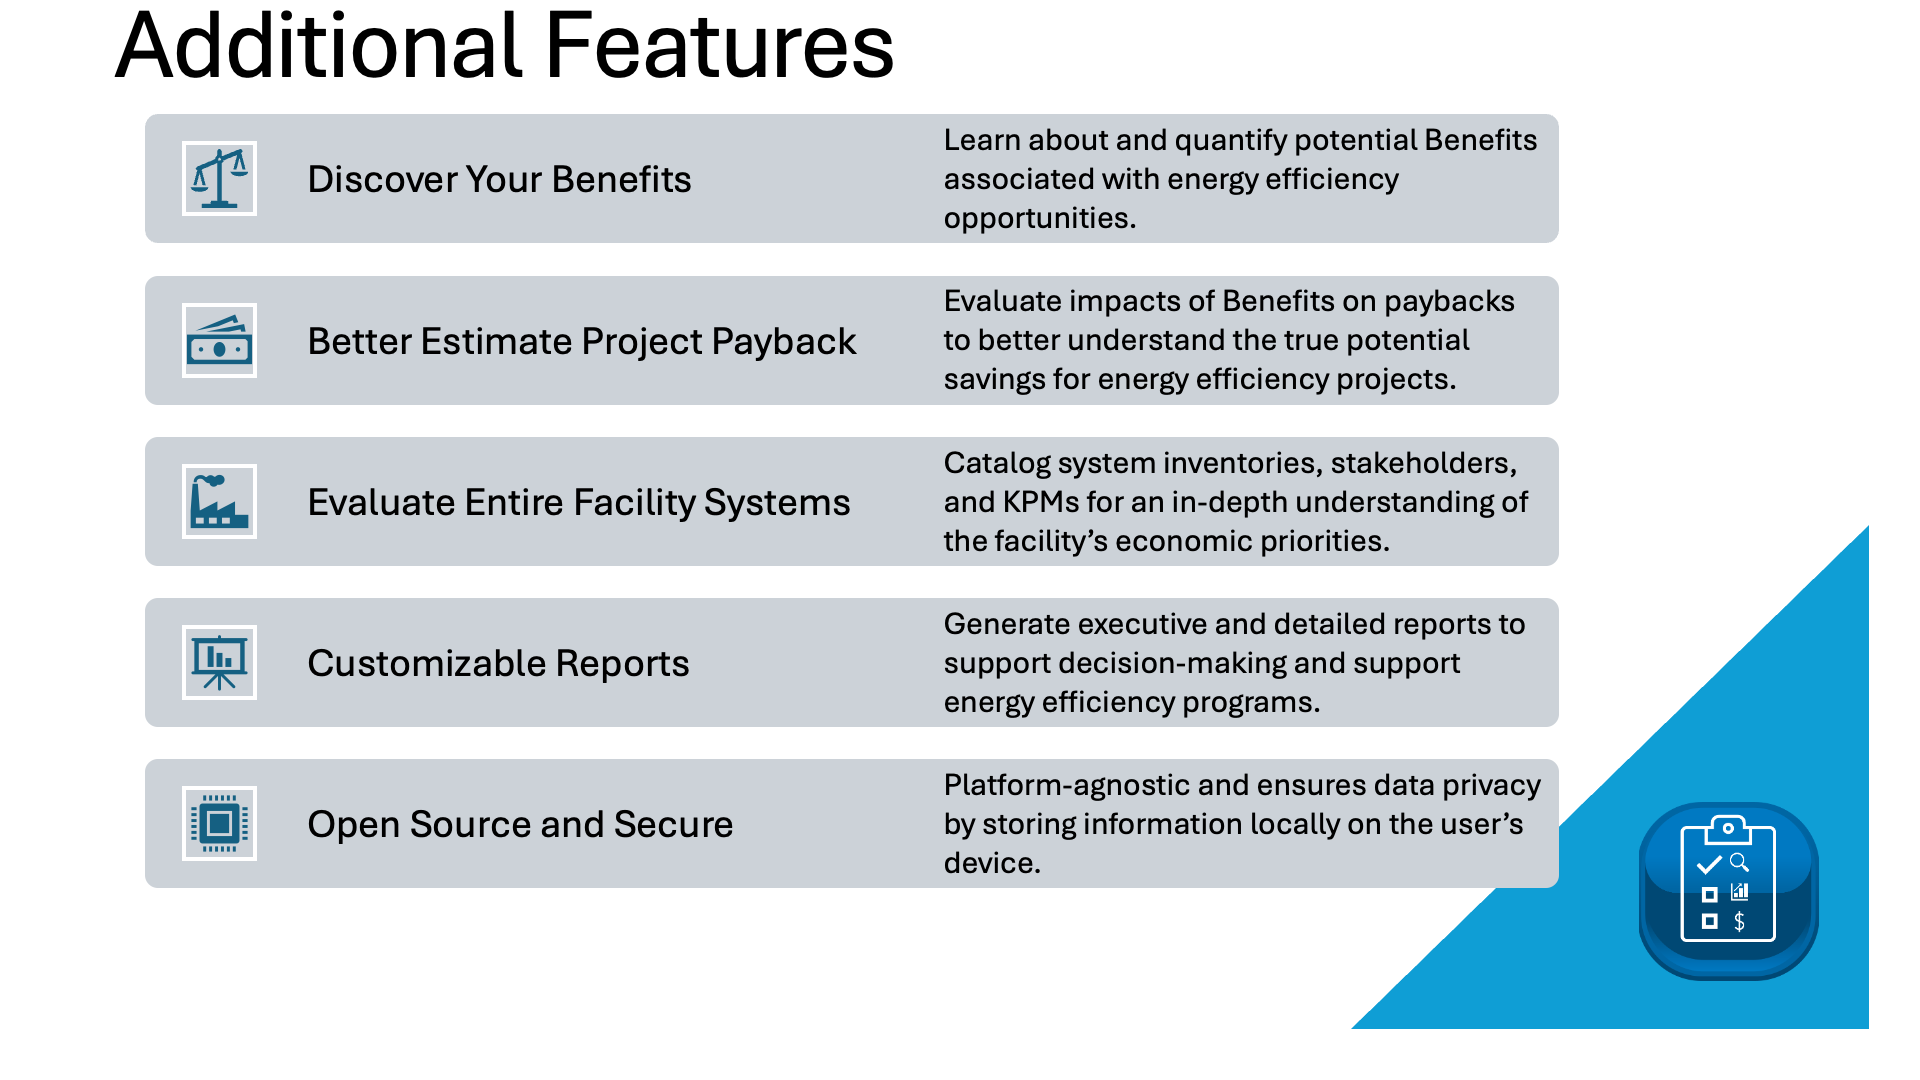
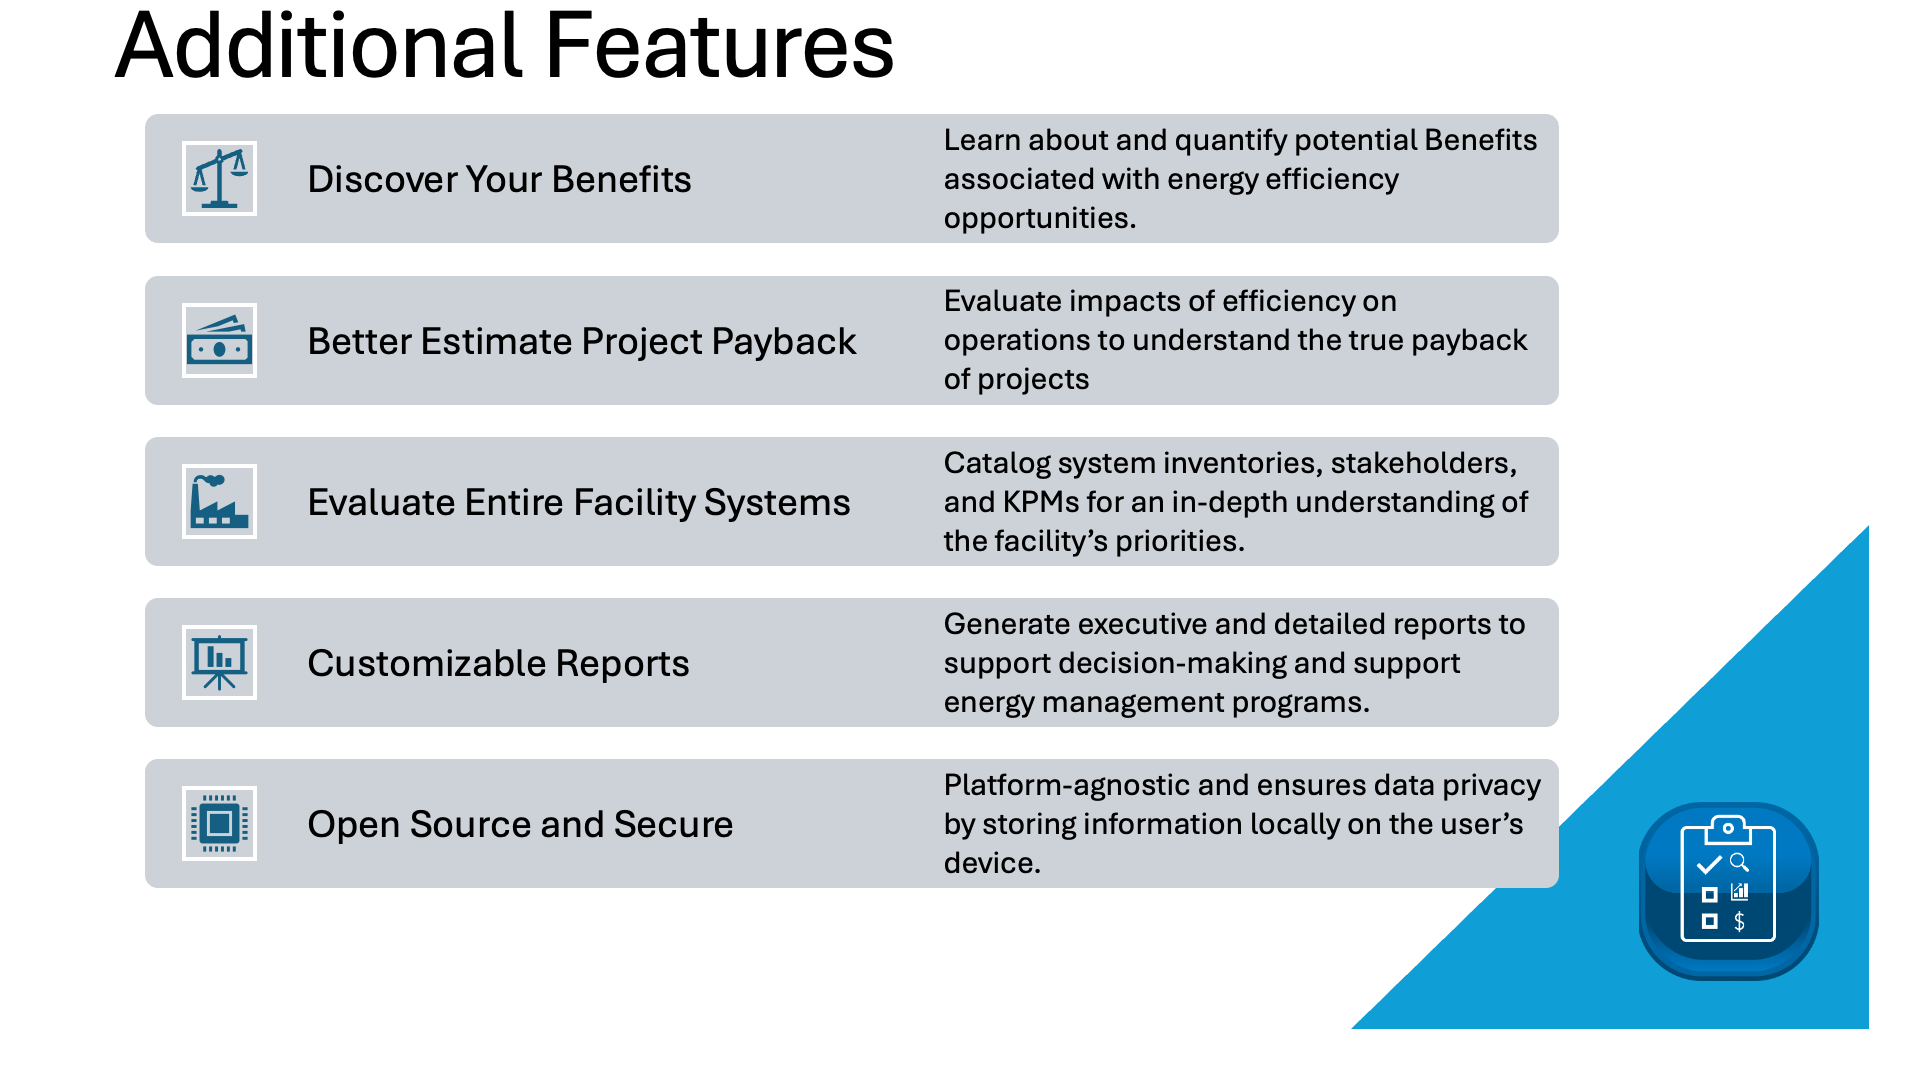
fixup: updated slideshow, examples and words

Changed region(s): [[0.5, 0.275, 0.8125, 0.3667], [0.5312, 0.6417, 0.7188, 0.6722], [0.5625, 0.4889, 0.7188, 0.5194]]

diff --git a/src/app/shared/help-content/energy-equipment-help.ts b/src/app/shared/help-content/energy-equipment-help.ts
@@ -15,7 +15,7 @@ export const EnergyEquipmentTakeStockHelp = {
 }
 
 export const EnergyEquipmentOperationsHelp = {
-    sectionHelp: `The questions outlined in this section are to help you think about how this system, the assessment, and possible energy efficiency measures (EEMS) connect with the sites Key Performance Indicators and Metrics (KPIs and KPMs) related to operations (production, quality, operating costs). <u>Not all of these sections are relevant to every system and every site.</u> Only topics related to projects needing further justification and have benefits relating to site interests should be pursued further.`,
+    sectionHelp: `The questions outlined in this section are to help you think about how this system, the assessment, and possible energy efficiency measures (EEMs) connect with the sites Key Performance Indicators and Metrics (KPIs and KPMs) related to operations (production, quality, operating costs). <u>Not all of these sections are relevant to every system and every site.</u> Only topics related to projects needing further justification and have benefits relating to site interests should be pursued further.`,
     describeOutputOfSystem: `Understand how operators monitor and assess the output of this system (higher pressure fluid, steam, compressed air) and match to downstream needs is necessary for the energy and operational cost savings assessment. Output of these systems is often measured in batch time, or for continuous processes units per hour, gpm, cfm, etc.`,
     describeOutputOfSystemQs: `Assessors can ask:<br>
                     How is the output measured? <br>
@@ -46,7 +46,7 @@ export const EnergyEquipmentOperationsHelp = {
 }
 
 export const EnergyEquipmentSustainabilityHelp = {
-    sectionHelp: `The questions outlined in this section are to help you think about how this system, the assessment, and possible energy efficiency measures (EEMS) connect with the sites Key Performance Indicators and Metrics (KPIs and KPMs) related to sustainability (waste, water).  <u>Not all of these sections are relevant to every system and every site.</u> Only topics related to projects needing further justification and have benefits relating to site interests should be pursued further.`,
+    sectionHelp: `The questions outlined in this section are to help you think about how this system, the assessment, and possible energy efficiency measures (EEMs) connect with the sites Key Performance Indicators and Metrics (KPIs and KPMs) related to material efficiency (waste, water).  <u>Not all of these sections are relevant to every system and every site.</u> Only topics related to projects needing further justification and have benefits relating to site interests should be pursued further.`,
     describeWasteStreams: `EEMs can reduce waste of industrial energy systems by reducing blowdown, treatment chemical use, or improving the output of process heating systems.<br>
                     When quantifying a waste-related EEM, be sure to not double count as it could impact several different KPIs (expenses, waste, water, regulatory, etc.)`,
     describeWasteStreamsQs: `Assessors can ask:<br>
@@ -60,7 +60,7 @@ export const EnergyEquipmentSustainabilityHelp = {
     describeWaterInputDischargeQs: `Assessors can ask:<br>
                     Are any water streams utilized in this system?<br>
                     How much does water use and sewage cost?<br>
-                    Are there any water pollution concerns in the plant and could those be alleviated?`,
+                    Are there any water management concerns in the plant and could those be alleviated?`,
     describeRefrigerantProcessDustEmissions: `EEMs or other opportunities found in an assessment could reduce outputs from the system.`,
     describeRefrigerantProcessDustEmissionsQs: `Assessors can ask:<br>
                     Are there any refrigerant loops in the system?<br>
@@ -75,7 +75,7 @@ export const EnergyEquipmentSustainabilityHelp = {
 }
 
 export const EnergyEquipmentEmployeeEngagementHelp = {
-    sectionHelp: `The questions outlined in this section are to help you think about how this system, the assessment, and possible energy efficiency measures (EEMS) connect with the sites Key Performance Indicators and Metrics (KPIs and KPMs) related to employee and workplace environment (safety, employee satisfaction).  Asking key stakeholders these questions will allow the assessor to better understand the needs of the site and any areas where energy improvement can help. Not all of these sections are relevant to every system and every site. Assessors should get some basic information on the topic areas, gauge site concern about the topic, and triage systems under assessment to focus on systems with projects that need more justification before investing the time for this deep dive. `,
+    sectionHelp: `The questions outlined in this section are to help you think about how this system, the assessment, and possible energy efficiency measures (EEMs) connect with the sites Key Performance Indicators and Metrics (KPIs and KPMs) related to employee and workplace environment (safety, employee satisfaction).  Asking key stakeholders these questions will allow the assessor to better understand the needs of the site and any areas where energy improvement can help. Not all of these sections are relevant to every system and every site. Assessors should get some basic information on the topic areas, gauge site concern about the topic, and triage systems under assessment to focus on systems with projects that need more justification before investing the time for this deep dive. `,
     describeSafetyConcerns: `Many common EEMs can improve safety around the system. Safety incidents can be measured or monitored via OSHA Total recordable incident rate (TRIR), OSHA recordable incidents, non-recordable incidents, near-misses, days away from work, lost time injury rate (LTIFR).`,
     describeSafetyConcernsQs: `Assessors can ask:<br>
                     Have there been any safety concerns or incidents related to the system?<br>

diff --git a/src/app/shared/help-content/process-equipment-help.ts b/src/app/shared/help-content/process-equipment-help.ts
@@ -18,7 +18,7 @@ export const ProcessEquipmentTakeStockHelp = {
 }
 
 export const ProcessEquipmentOperationsHelp = {
-    sectionHelp: `The questions outlined in this section are to help you think about how this system, the assessment, and possible energy efficiency measures (EEMS) connect with the sites Key Performance Indicators and Metrics (KPIs and KPMs) related to operations (production, quality, operating costs). <u>Not all of these sections are relevant to every system and every site.</u> Only topics related to projects needing further justification and have benefits relating to site interests should be pursued further.`,
+    sectionHelp: `The questions outlined in this section are to help you think about how this system, the assessment, and possible energy efficiency measures (EEMs) connect with the sites Key Performance Indicators and Metrics (KPIs and KPMs) related to operations (production, quality, operating costs). <u>Not all of these sections are relevant to every system and every site.</u> Only topics related to projects needing further justification and have benefits relating to site interests should be pursued further.`,
     describeOutputRate: `Understanding how operators monitor and assess the output of this process and match to downstream needs is necessary. Output of processes are often measured in batch time or for continuous processes units per hour, gpm, cfm, etc.`,
     describeOutputRateQs: `Assessors can ask:<br>
                     How is the output measured?<br>
@@ -56,7 +56,7 @@ export const ProcessEquipmentOperationsHelp = {
 }
 
 export const ProcessEquipmentSustainabilityHelp = {
-    sectionHelp: `The questions outlined in this section are to help you think about how this system, the assessment, and possible energy efficiency measures (EEMS) connect with the sites Key Performance Indicators and Metrics (KPIs and KPMs) related to sustainability (waste, water, outputs). <u>Not all of these sections are relevant to every system and every site.</u> Only topics related to projects needing further justification and have benefits relating to site interests should be pursued further.`,
+    sectionHelp: `The questions outlined in this section are to help you think about how this system, the assessment, and possible energy efficiency measures (EEMS) connect with the sites Key Performance Indicators and Metrics (KPIs and KPMs) related to material efficiency (waste, water, outputs). <u>Not all of these sections are relevant to every system and every site.</u> Only topics related to projects needing further justification and have benefits relating to site interests should be pursued further.`,
     describeRefrigerantProcessDustEmissions: `EEMs or other opportunities found in an assessment could reduce outputs from the system.`,
     describeRefrigerantProcessDustEmissionsQs: `Assessors can ask:<br>
                     Are there any refrigerant loops in the system?<br>
@@ -77,7 +77,7 @@ export const ProcessEquipmentSustainabilityHelp = {
     describeWaterInputDischargeQs: `Assessors can ask:<br>
                     Are any water streams utilized in this system?<br>
                     How much does water use and sewage cost?<br>
-                    Are there any water pollution concerns in the plant and could those be alleviated?`,
+                    Are there any water management concerns in the plant and could those be alleviated?`,
     describeRegulations: `EEMs regarding the operations of an industrial energy system can impact systems being regulated (boiler and burner outputs - N2O, dust, water quality), impacting potential fees or monitoring expenses. This could be related to air, dust, water, or waste streams/outputs.`,
     describeRegulationsQs: `Assessors can ask:<br>
                     What environmental regulations are impacted by the equipment? <br>
@@ -86,7 +86,7 @@ export const ProcessEquipmentSustainabilityHelp = {
 }
 
 export const ProcessEquipmentEmployeeEngagementHelp = {
-    sectionHelp: `The questions outlined in this section are to help you think about how this system, the assessment, and possible energy efficiency measures (EEMS) connect with the sites Key Performance Indicators and Metrics (KPIs and KPMs) related to employee and workplace environment (safety, employee satisfaction). <u>Not all of these sections are relevant to every system and every site.</u> Only topics related to projects needing further justification and have benefits relating to site interests should be pursued further.`,
+    sectionHelp: `The questions outlined in this section are to help you think about how this system, the assessment, and possible energy efficiency measures (EEMs) connect with the sites Key Performance Indicators and Metrics (KPIs and KPMs) related to employee and workplace environment (safety, employee satisfaction). <u>Not all of these sections are relevant to every system and every site.</u> Only topics related to projects needing further justification and have benefits relating to site interests should be pursued further.`,
     describeSafetyConcerns: `Many common EEMs can improve safety around the system. Safety incidents can be measured or monitored via OSHA Total recordable incident rate (TRIR), OSHA recordable incidents, non-recordable incidents, near-misses, days away from work, lost time injury rate (LTIFR).`,
     describeSafetyConcernsQs: `Assessors can ask:<br>
                     Have there been any safety concerns or incidents related to the process?<br>

diff --git a/src/app/shared/shared-services/powerpoint-report-generator.service.ts b/src/app/shared/shared-services/powerpoint-report-generator.service.ts
@@ -535,7 +535,7 @@ export class PowerpointReportGeneratorService {
   addNebStaticSlide(nebstaticSlide: pptxgen.Slide) {
     nebstaticSlide.addText('What are Multiple Benefits?', { placeholder: 'title' });
     nebstaticSlide.addText(
-      "Multiple Benefits are the positive outcomes that result from energy efficiency efforts, beyond the direct savings in energy and demand.\nThey can be beneficial participants in energy efficiency program, the utility system, and society.\nAlso commonly known as non-energy benefits (NEBs), operational benefits, co-benefits, soft benefits, auxiliary benefits, or non-energy impacts.",
+      "Multiple Benefits are the positive outcomes that result from energy efficiency efforts, beyond the direct savings in energy and demand.\nThey can be beneficial participants in energy efficiency program, the utility system, and society.\nAlso commonly known as multiple benefits (MBs), operational benefits, co-benefits, soft benefits, auxiliary benefits, or non-energy impacts.",
       { placeholder: 'body' }
     );
     nebstaticSlide.addImage({ path: "/assets/images/neb-static-slide.png", x: 0.5, y: 3.2, w: 8, h: 2 });

diff --git a/src/app/shared/shared-assessment-forms/neb-forms-accordion/neb-setup-form/neb-setup-form.component.ts b/src/app/shared/shared-assessment-forms/neb-forms-accordion/neb-setup-form/neb-setup-form.component.ts
@@ -135,9 +135,9 @@ export class NebSetupFormComponent {
     await this.dbChangesService.deleteNonEnergyBenefit(this.nonEnergyBenefit);
     this.closeDeleteModal();
     if (this.nonEnergyBenefit.energyOpportunityId) {
-      this.toastNotificationService.showToast('NEB Deleted!', 'Non-energy Benefit has been removed from the energy efficiency measure.', 'bg-success', true, false)
+      this.toastNotificationService.showToast('MB Deleted!', 'Multiple Benefit has been removed from the energy efficiency measure.', 'bg-success', true, false)
     } else {
-      this.toastNotificationService.showToast('NEB Deleted!', 'Non-energy Benefit has been removed from the assessment.', 'bg-success', true, false)
+      this.toastNotificationService.showToast('MB Deleted!', 'Multiple Benefit has been removed from the assessment.', 'bg-success', true, false)
     }
     if (this.router.url.includes('portfolio') && !this.nonEnergyBenefit.energyOpportunityId) {
       this.router.navigateByUrl('/portfolio/assessment/' + this.nonEnergyBenefit.assessmentId + '/nebs');

diff --git a/src/app/nebs-database/nebs-database.component.html b/src/app/nebs-database/nebs-database.component.html
@@ -6,8 +6,8 @@
                 Multiple Benefits Database
             </h4>
             <p class="fw-light">
-                JUSTIFI comes pre-populated with a wide range of Key Performance Indicators (KPI), Key Performance
-                Metrics (KPM) and Multiple Benefits (MBs). Through our research we have identified relationships
+                JUSTIFI comes pre-populated with a wide range of Key Performance Indicators (KPIs), Key Performance
+                Metrics (KPMs) and Multiple Benefits (MBs). Through our research we have identified relationships
                 between these three data items. This page provides a detailed looked at the relationships we have built
                 into the tool.
             </p>

diff --git a/src/app/shared/constants/nonEnergyBenefitOptions.ts b/src/app/shared/constants/nonEnergyBenefitOptions.ts
@@ -658,7 +658,7 @@ export const NebKeywords: { [key: string]: Array<string>} = {
         "improve product quality", "product quality", "reducing debris contamination", "debris contamination reduction",
 
         // Synonyms and related terms
-        "quality improvement", "reduce contamination", "debris-free production", "clean manufacturing",
+        "quality improvement", "reduce contamination", "debris-free production",
         "reduce product defects", "enhance product quality", "contamination control", "improve cleanliness",
         "reduce debris defects", "cleaner production processes"
     ],

diff --git a/src/app/core-components/about/about.component.html b/src/app/core-components/about/about.component.html
@@ -117,7 +117,7 @@
             </p>
             <p class="alert alert-info">
                 NOTICE TO USERS<br>
-                Note that users should be aware that finding non-energy benefits can vary and are not guaranteed.
+                Note that users should be aware that finding multiple benefits can vary and are not guaranteed.
                 The use of the JUSTIFI tool does not constitute or imply any endorsement, recommendation,
                 or favoring of any entity, product, or service.
                 Please refer to the terms and disclaimer located in the project <a

diff --git a/src/app/user-portfolio/facility-dashboard/manage-on-site-visits/manage-on-site-visits.component.html b/src/app/user-portfolio/facility-dashboard/manage-on-site-visits/manage-on-site-visits.component.html
@@ -76,7 +76,7 @@
         <ng-template [ngIf]="visitToDelete?.assessmentIds.length > 0" [ngIfElse]="noAssessmentsBlock">
             <div class="alert alert-danger">
                 This visit has assessments associated with it. Are you sure you want to delete this visit? All
-                assessments, energy efficiency measures and non-energy benefits will be deleted.
+                assessments, energy efficiency measures and multiple benefits will be deleted.
             </div>
         </ng-template>
         <ng-template #noAssessmentsBlock>

diff --git a/src/app/core-components/welcome/welcome.component.html b/src/app/core-components/welcome/welcome.component.html
@@ -267,7 +267,7 @@
             customer loyalty and one of its facilities has become a small tourist location.
         </p>
         <p>
-            The plant manager is concerned with safety incidents, their new sustainability goals, their growing defect
+            The plant manager is concerned with safety incidents, their new operational improvement goals, their growing defect
             rate, and the need to reduce costs.
         </p>
         <p>
